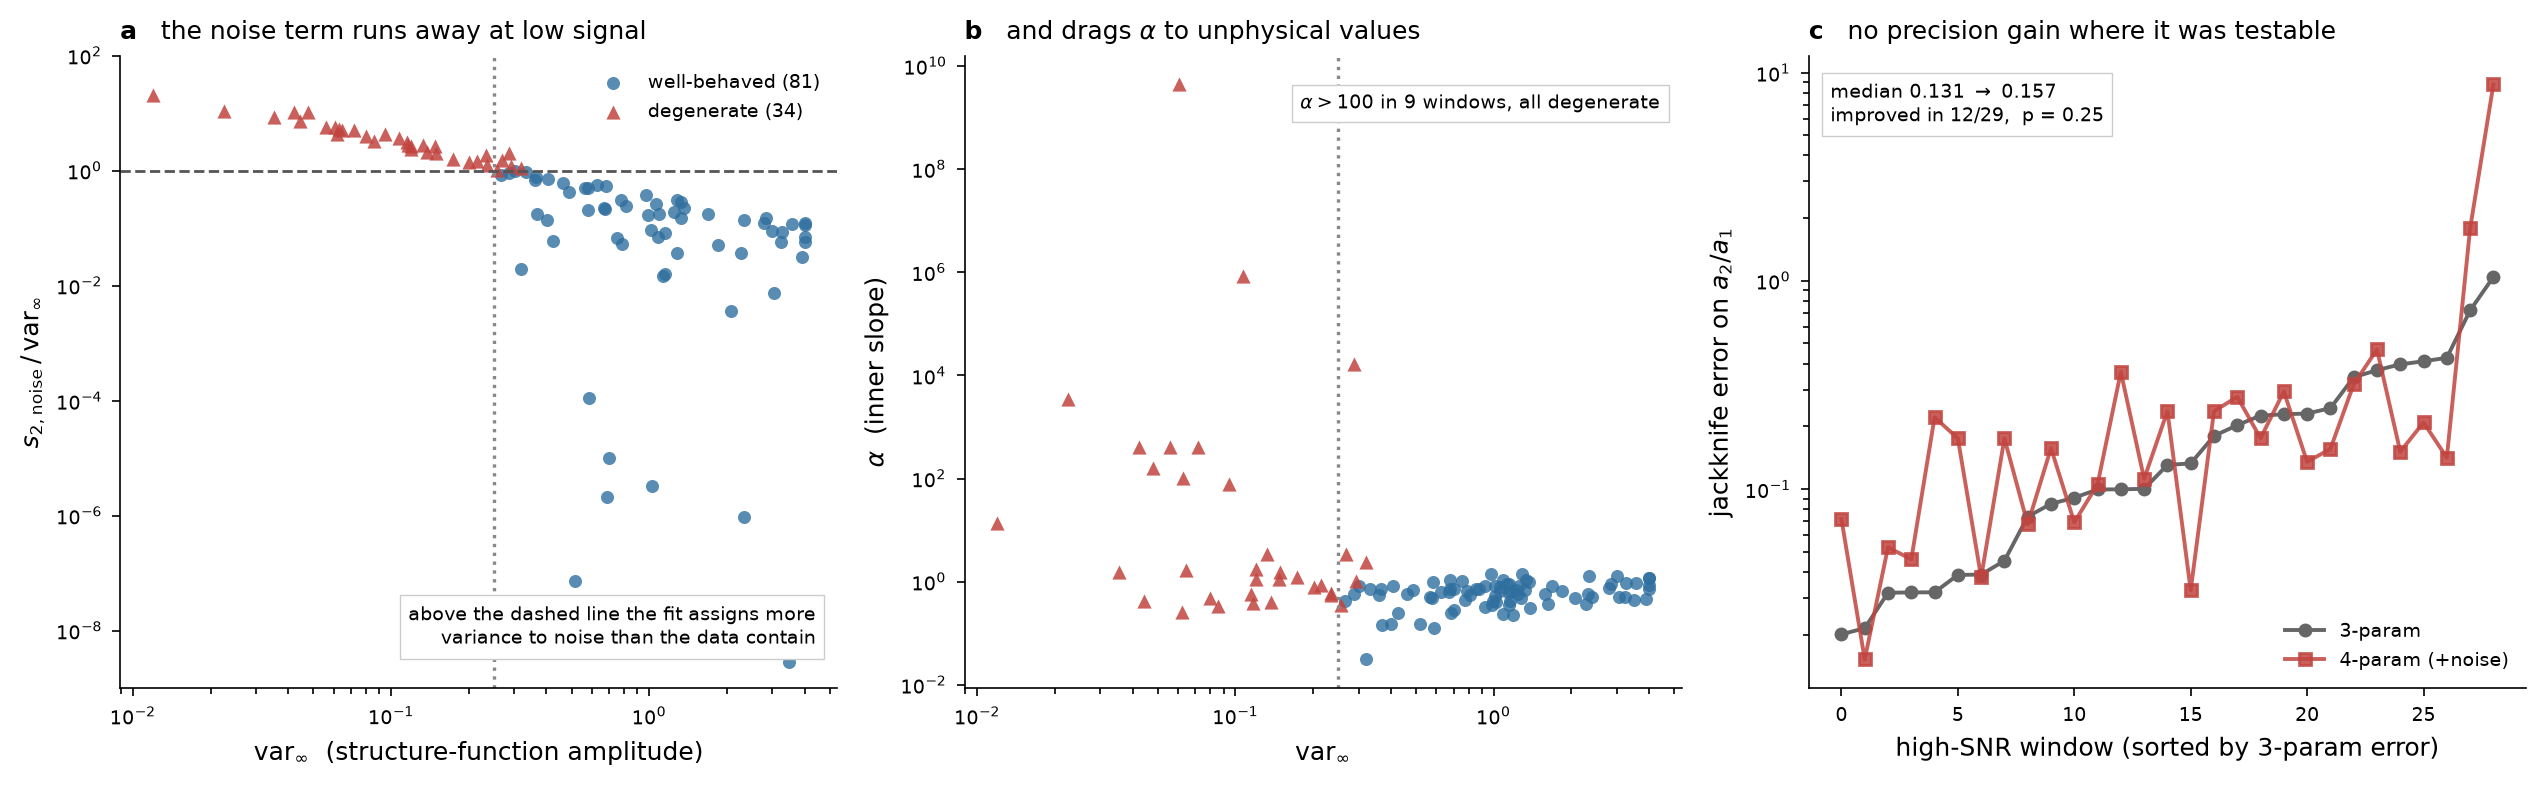
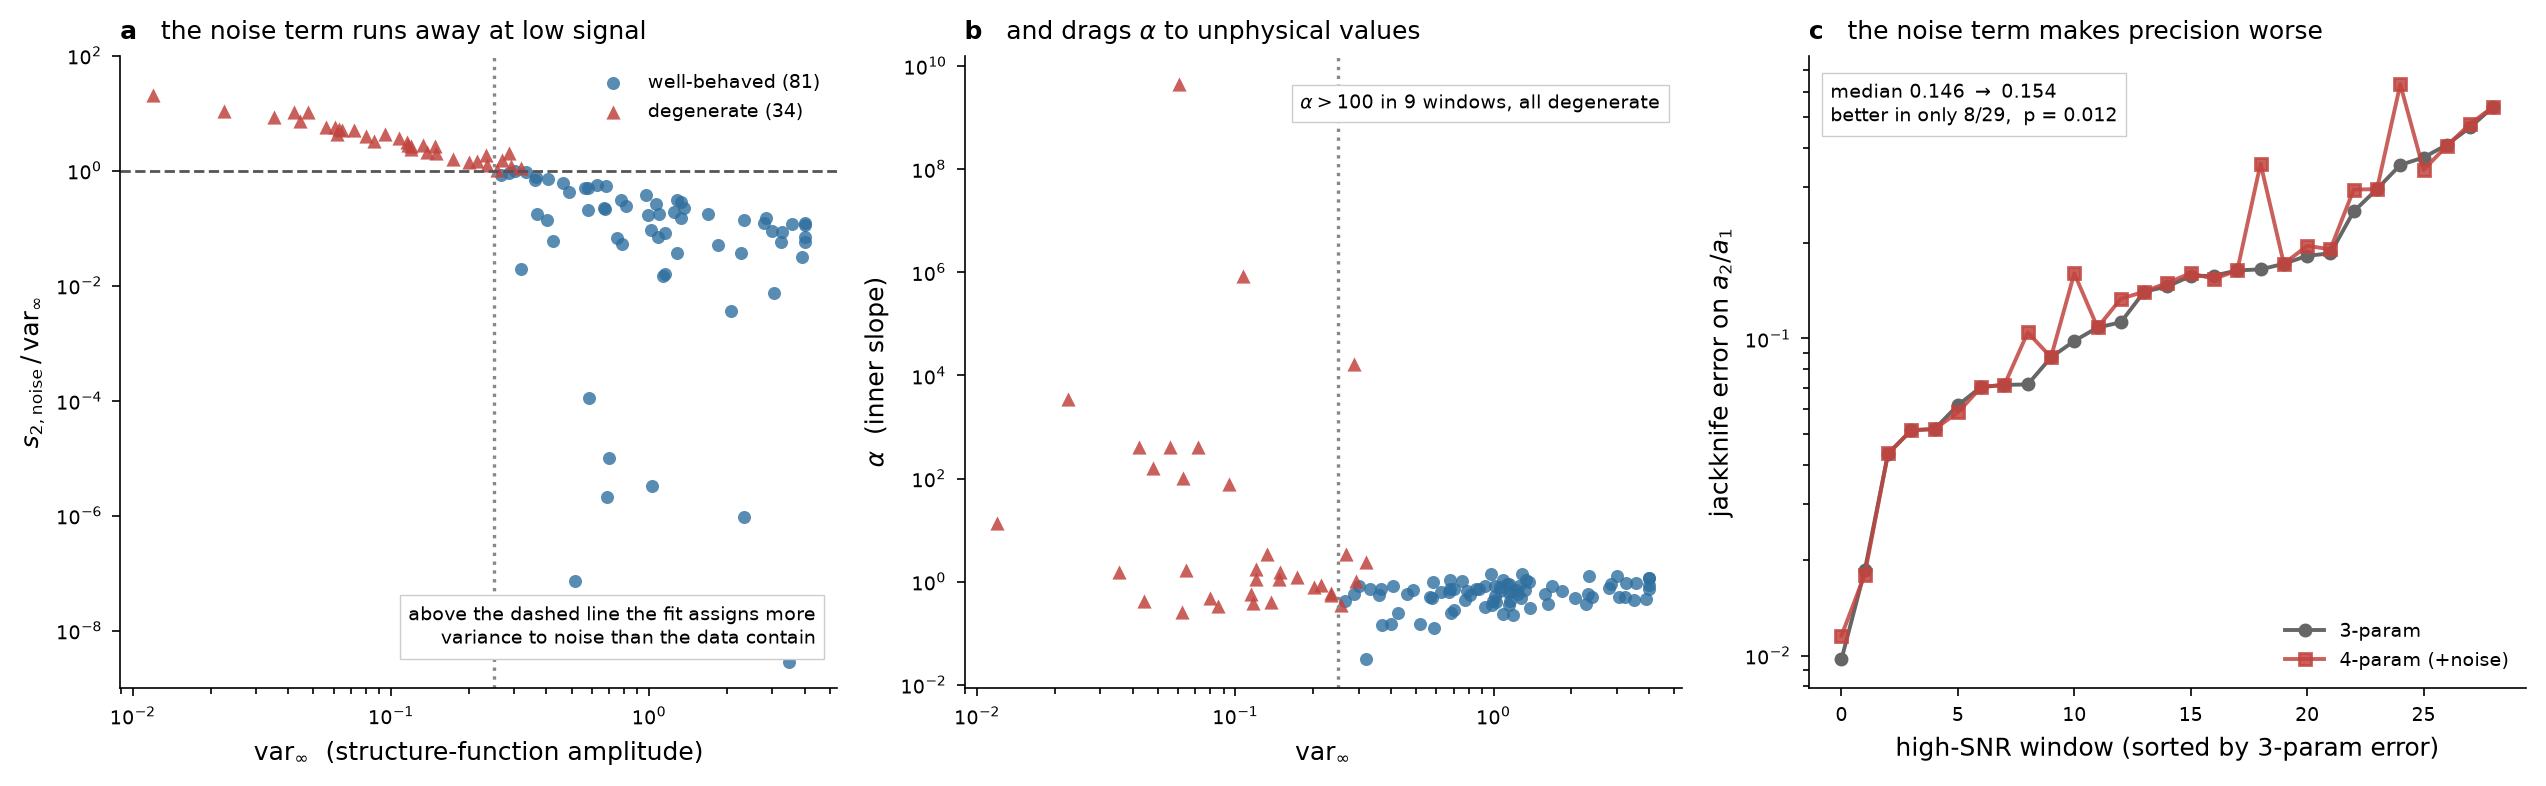
CORRECTION: jackknife errors in the noise comparison were wrong
While validating a new summary script against the committed table I found the
se_a2a1 column could not be reproduced from the per-window JSONs by ANY
formula I tried: standard delete-one jackknife, plain std, SEM, log-space,
deviations about the central fit rather than the sample mean, sorted-axis
ordering, error propagation from se(a1) and se(a2), and row misalignment.
Zero of 115 rows matched under any of them, and the discrepancy was not a
constant factor (ratio 0.026 to 22.4), so it was not a convention difference.
The column is not trustworthy and has been recomputed from the raw samples.

The verified formula is the textbook delete-one-block jackknife, checkable by
hand: r2800_c2000 has samples [0.7349, 0.4136, 0.4593, 0.2622], giving
se = sqrt(3/4 * sum (x - xbar)^2) = 0.2957.

Corrected paired comparison on the 29 high-SNR windows:
    median se(a2/a1)  0.146 -> 0.154   (previously reported 0.131 -> 0.157)
    4-param better in 8/29             (previously 12/29)
    Wilcoxon p = 0.012                 (previously 0.25)

This STRENGTHENS the verdict.  The earlier reading was 'no significant
difference'; the correct one is that the noise term makes the ratio precision
significantly WORSE.  Recommendation to not adopt it is unchanged.

Everything resting on the fitted parameters rather than their errors is
unaffected -- those reproduce exactly.  Degenerate count is still 34/115,
clean 81, and the shape distribution is unchanged.
[…]

diff --git a/analysis/summarize_full_sample.py b/analysis/summarize_full_sample.py
@@ -1,0 +1,80 @@
+"""Summarize the full 115-window jackknife run into a per-window table.
+
+Reads data/jk_<profile>[_s<stride>]/*.json and writes a tidy CSV with the
+central-fit parameters, the jackknife standard errors, and quality flags.
+
+The quality cut is RE-DERIVED here rather than inherited: the var_inf < 0.25
+screen was found on the 4-parameter fits, where the failure mode was the noise
+term absorbing the signal.  The 3-parameter model has no noise term, so that
+mechanism cannot operate and the threshold must be justified again (or
+discarded) on this sample.
+
+Usage:  python analysis/summarize_full_sample.py <dir> <out.csv>
+"""
+import glob
+import json
+import os
+import sys
+
+import numpy as np
+import pandas as pd
+
+
+def jackknife_se(values):
+    """Delete-one-block jackknife standard error."""
+    v = np.asarray([x for x in values if np.isfinite(x)], dtype=float)
+    if v.size < 2:
+        return np.nan
+    return float(np.sqrt((v.size - 1) / v.size * np.sum((v - v.mean()) ** 2)))
+
+
+def load_dir(d):
+    rows = []
+    for fn in sorted(glob.glob(os.path.join(d, '*.json'))):
+        r = json.load(open(fn))
+        c = r.get('central') or {}
+        if 'error' in c or not c:
+            rows.append(dict(chunk=f"r{r['row']}_c{r['col']}", row=r['row'],
+                             col=r['col'], central_ok=False))
+            continue
+        good = [s for s in r['samples'] if 'error' not in s]
+        a1 = c['a1']
+        rows.append(dict(
+            chunk=f"r{r['row']}_c{r['col']}", row=r['row'], col=r['col'],
+            central_ok=True, converged=bool(c.get('fit_success', True)),
+            fit_stride=r.get('fit_stride', 1),
+            a1=a1, a2a1=c['a2'] / a1, a3a2=c['a3'] / c['a2'],
+            alpha=c['alpha'], beta=c['beta'], var_inf=c['var_inf'],
+            rms=c.get('rms_resid', np.nan),
+            se_a2a1=jackknife_se([s['a2'] / s['a1'] for s in good]),
+            se_a3a2=jackknife_se([s['a3'] / s['a2'] for s in good]),
+            se_a1=jackknife_se([s['a1'] for s in good]),
+            n_ok=len(good), wall_s=r.get('wall_s', np.nan)))
+    return pd.DataFrame(rows)
+
+
+def add_quality_flags(df):
+    """Flag windows whose fit should not be trusted.
+
+    Criteria that apply to ANY profile:
+      - the central fit errored or did not converge
+      - beta pinned is NOT a disqualifier (it is a model-form statement, see
+        results/beta_ratio_invariance.png), so it is recorded, not cut
+      - alpha driven to an unphysical value
+      - a ratio that is exactly 0 or 1 (degenerate axis)
+    """
+    df = df.copy()
+    df['alpha_bad'] = df.alpha >= 10
+    df['ratio_bad'] = (df.a2a1 <= 1e-3) | (df.a3a2 <= 1e-3) | (df.a3a2 >= 0.999)
+    df['degen'] = (~df.central_ok.astype(bool) | ~df.converged.astype(bool)
+                   | df.alpha_bad | df.ratio_bad)
+    return df
+
+
+if __name__ == '__main__':
+    d = sys.argv[1]
+    out = sys.argv[2]
+    df = add_quality_flags(load_dir(d))
+    df.to_csv(out, index=False)
+    print(f'{len(df)} windows -> {out}')
+    print(f'  degenerate: {int(df.degen.sum())}   clean: {int((~df.degen).sum())}')
